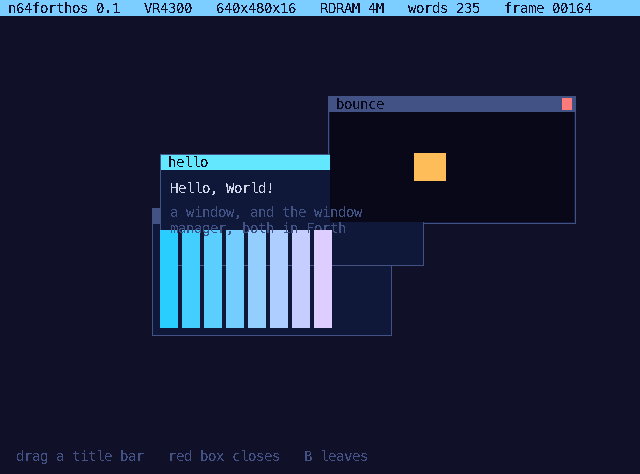
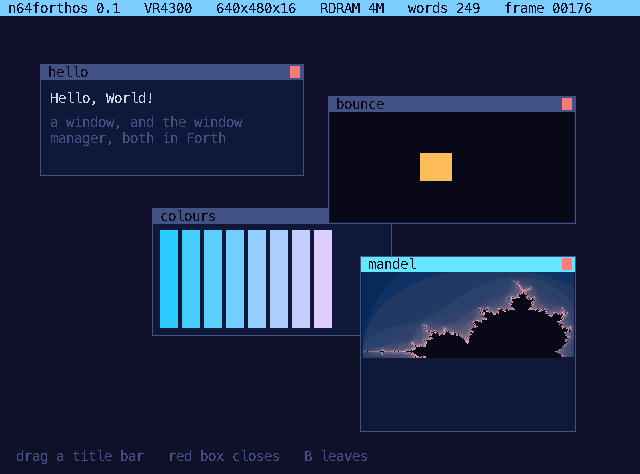
A window that computes
The fourth window on the desk renders an escape-time fractal into its own
canvas, a couple of rows a frame, while the bounce window goes on bouncing
and the pointer goes on dragging. It watches its own canvas position and
starts again when it has been carried somewhere else, because the pixels it
already drew stayed where they were.

That is the thing worth having: a window is not a picture the system draws
for an application, it is a canvas and a clip handed to a Forth word once a
frame, and what that word does with its slice is its own business.

The window manager test needed longer steps, because a frame that computes a
fractal is worth ten of an idle one and the pointer only moves when the
kernel polls.

diff --git a/src/apps/wm_fth.h b/src/apps/wm_fth.h
@@ -215,12 +215,67 @@ static const char wm_fth[] =
     "   CANVAS-Y CANVAS-H 2/ + 14 -   32 28\n"
     "   255 190 90 RGB BOX ;\n"
     "\n"
+    "\\ --- a window that computes -----------------------------------------------\n"
+    "\\ Escape-time, a couple of rows a frame, straight into the window's canvas.\n"
+    "\\ It notices when the window has been carried somewhere else and starts\n"
+    "\\ again, because the pixels it drew stayed where they were.\n"
+    "\n"
+    "262144 CONSTANT FOUR\n"
+    "    24 CONSTANT DEPTH\n"
+    "VARIABLE ZX  VARIABLE ZY\n"
+    "VARIABLE MX  VARIABLE MY\n"
+    "VARIABLE IT\n"
+    "VARIABLE MROW  VARIABLE LASTX  VARIABLE LASTY\n"
+    "\n"
+    ": ESCAPE ( -- n )\n"
+    "   0 ZX ! 0 ZY ! 0 IT !\n"
+    "   BEGIN\n"
+    "      ZX @ ZX @ F*  ZY @ ZY @ F*\n"
+    "      2DUP + FOUR <  IT @ DEPTH < AND\n"
+    "   WHILE\n"
+    "      ZX @ ZY @ F* 2*  MY @ +\n"
+    "      >R  -  MX @ +  ZX !  R>  ZY !\n"
+    "      1 IT +!\n"
+    "   REPEAT\n"
+    "   2DROP IT @ ;\n"
+    "\n"
+    ": SHADE ( n -- colour )\n"
+    "   DUP DEPTH < 0= IF DROP 8 10 30 RGB EXIT THEN\n"
+    "   DUP 11 * 255 MIN\n"
+    "   OVER 6 * 40 + 255 MIN\n"
+    "   ROT 4 * 90 + 255 MIN\n"
+    "   RGB ;\n"
+    "\n"
+    ": MANDEL-ROW ( n -- )                  \\ one row of the window's canvas\n"
+    "   DUP CANVAS-H < 0= IF DROP EXIT THEN\n"
+    "   DUP -81920 SWAP 163840 CANVAS-H / * + MY !\n"
+    "   CANVAS-Y +\n"
+    "   CANVAS-W 0 DO\n"
+    "      -131072 I 163840 CANVAS-W / * + MX !\n"
+    "      ESCAPE SHADE\n"
+    "      OVER\n"
+    "      CANVAS-X I +  SWAP  ROT\n"
+    "      PLOT\n"
+    "   LOOP\n"
+    "   DROP ;\n"
+    "\n"
+    ": DRAW-MANDEL\n"
+    "   CANVAS-X LASTX @ <>  CANVAS-Y LASTY @ <>  OR IF\n"
+    "      0 MROW !  CANVAS-X LASTX !  CANVAS-Y LASTY !\n"
+    "   THEN\n"
+    "   2 0 DO\n"
+    "      MROW @ MANDEL-ROW\n"
+    "      MROW @ CANVAS-H < IF 1 MROW +! THEN\n"
+    "   LOOP ;\n"
+    "\n"
     ": START\n"
     "   0 #WINS !  -1 DRAGGING !  0 WAS-DOWN !  1 DIRTY !\n"
     "   \\ Whole characters across and whole rows down: the titles are then on\n"
     "   \\ the same grid as everything else the system draws.\n"
     "    40  64 264 112  S\" hello\"    ' DRAW-HELLO  NEW-WINDOW\n"
     "   152 208 240 128  S\" colours\"  ' DRAW-BARS   NEW-WINDOW\n"
-    "   328  96 248 128  S\" bounce\"   ' DRAW-BOUNCE NEW-WINDOW ;\n"
+    "   328  96 248 128  S\" bounce\"   ' DRAW-BOUNCE NEW-WINDOW\n"
+    "   -1 LASTX !  -1 LASTY !\n"
+    "   360 256 216 176  S\" mandel\"   ' DRAW-MANDEL NEW-WINDOW ;\n"
     ;
 #endif

diff --git a/tools/check.py b/tools/check.py
@@ -282,16 +282,18 @@ def run_wm(rom="build/n64forthos.z64"):
     # The pointer starts in the middle and a mouse reports at most 127 of
     # movement at a time, so walk it to the title bar in steps.  Positive dy
     # is upwards, the way the hardware reports it.
+    # A frame here does real work -- one of the windows is computing a
+    # fractal -- so each step gets long enough for the kernel to poll.
     for dx, dy in ((-87, 85), (-87, 85), (-86, 0)):
         m.mouse_move(dx, dy)
-        m.run(m.icount + 2 * FRAME)
+        m.run(m.icount + 12 * FRAME)
     m.mouse_button(0x8000, True)
-    m.run(m.icount + 4 * FRAME)
+    m.run(m.icount + 12 * FRAME)
     for _ in range(4):                          # carry it right and down
         m.mouse_move(40, -30)
-        m.run(m.icount + 3 * FRAME)
+        m.run(m.icount + 12 * FRAME)
     m.mouse_button(0x8000, False)
-    m.run(m.icount + 8 * FRAME)
+    m.run(m.icount + 12 * FRAME)
     after = close_box(m)
     check(after is not None and after != before,
           f"and dragging its title bar moved it ({before} -> {after})")

diff --git a/README.md b/README.md
@@ -110,6 +110,11 @@ Repainting everything every frame would flicker, so the chrome is drawn when
 something moves and only the contents are drawn between times, each inside
 its own window.
 
+One of the four demonstration windows computes: it renders a couple of rows
+of an escape-time fractal a frame into its own canvas, notices when it has
+been carried somewhere else and starts again, and the other windows go on
+animating around it.
+
 **Life** ([src/apps/life.fth](src/apps/life.fth)) — Conway's life, 64×64 on a
 torus, two generations held in the dictionary. A generation a pass, and it
 runs until you stop it.
